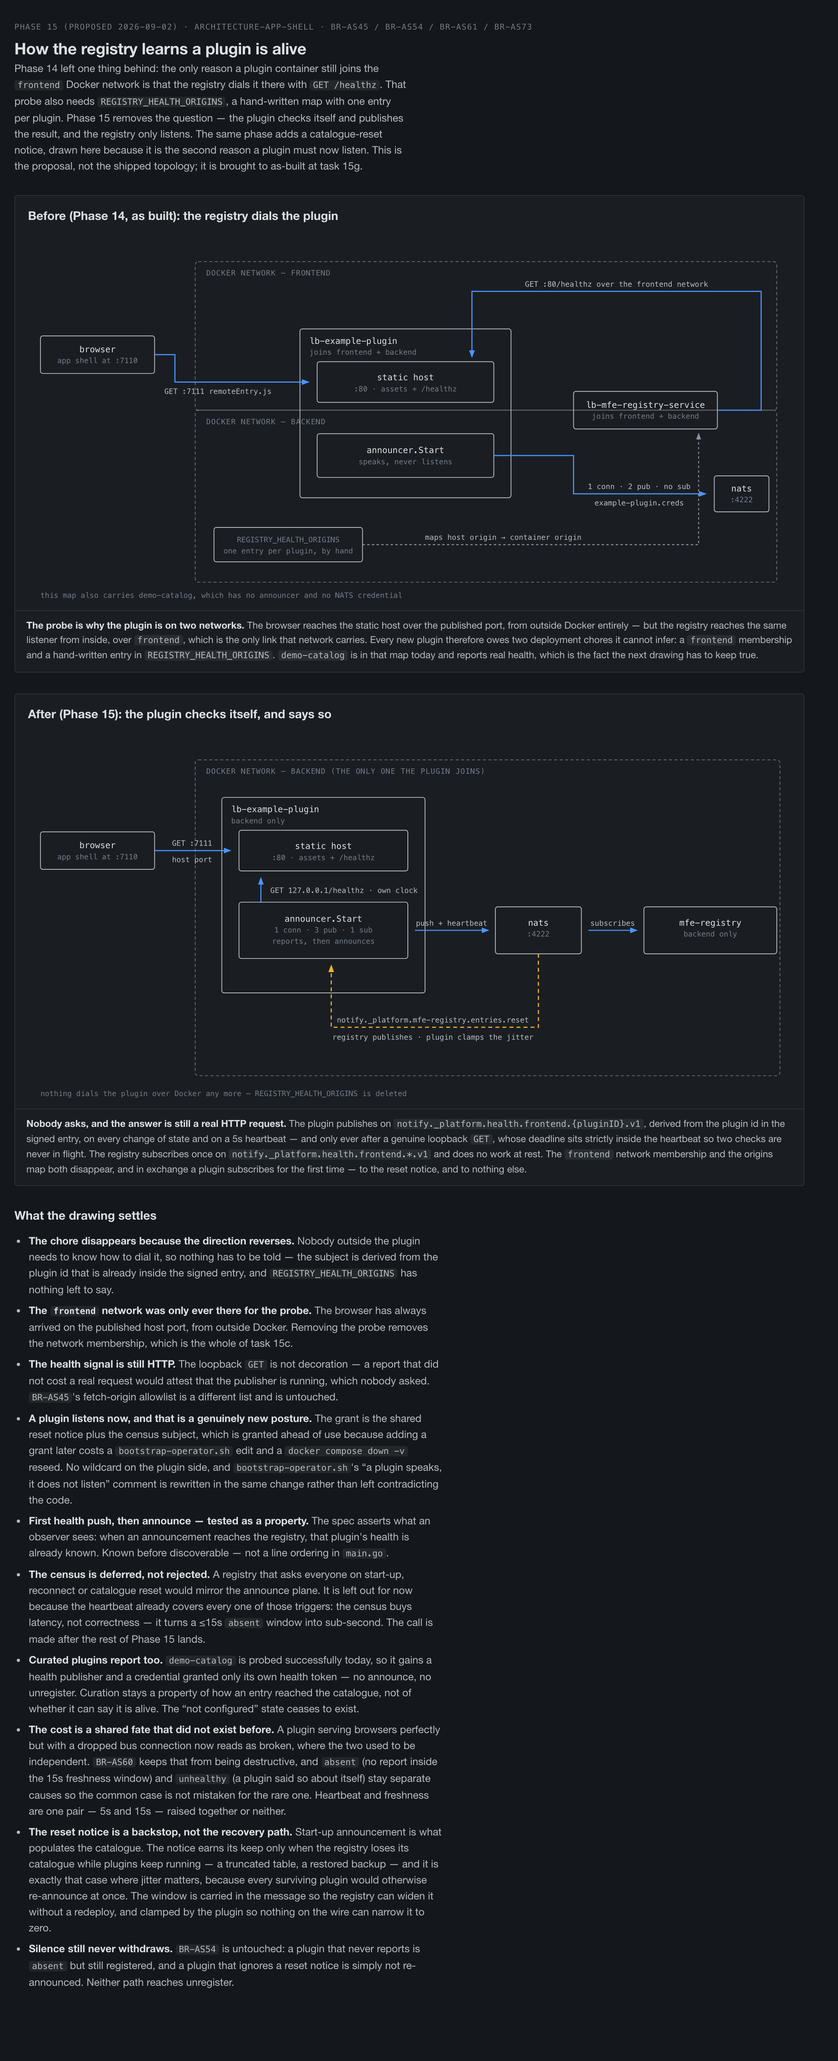
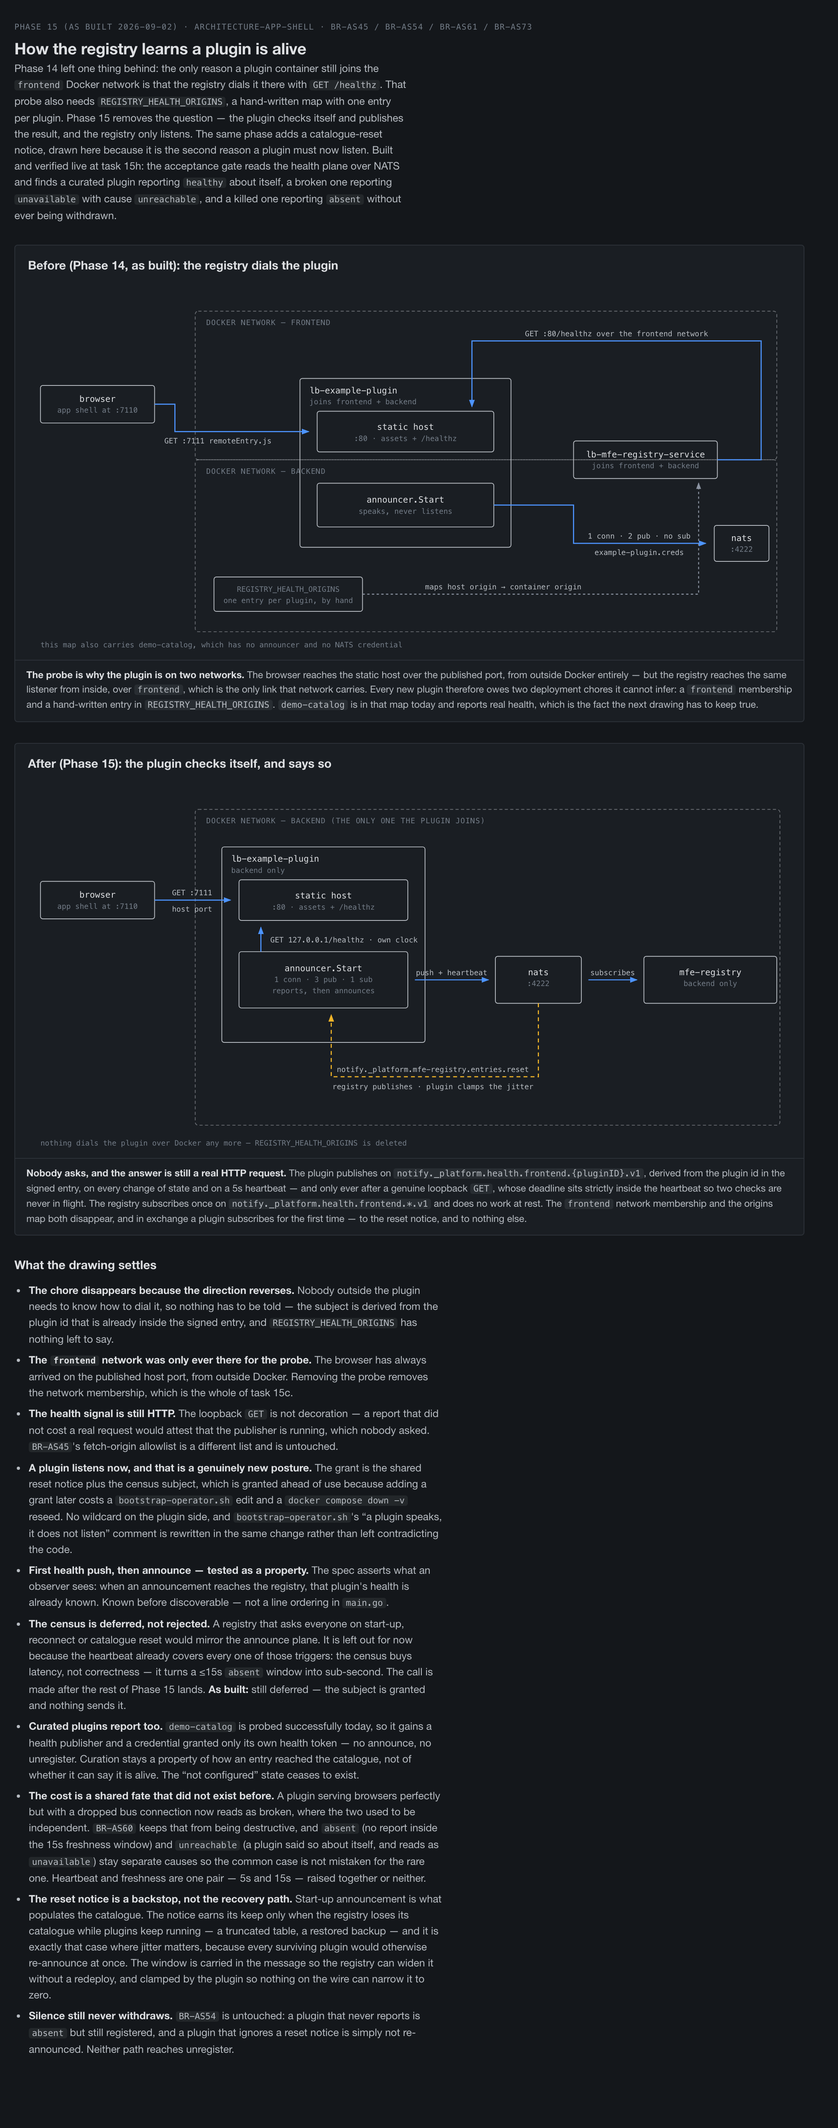
docs(app-shell): health over NATS, as built (Phase 15g)
ARCHITECTURE-APP-SHELL.md loses the claim that the registry dials each plugin
for GET /healthz through BR-AS45's origin map — it makes no outbound health
request at all now — and gains an as-built block for the reversed frontend
plane: the subject derived from the signed entry, the frontend Docker network
membership that went with the probe, curated publishers reporting about
themselves, the two subjects a plugin subscribes to, and the line between a
plugin saying it is broken and the registry hearing nothing.

ARCHITECTURE-COMMUNICATIONS.md gains the two Phase 15 subjects, and the two
health subjects from Phase 5 that were never listed at all.

The drawing is re-stamped as built and carries the 15h result instead of the
proposal disclaimer; one label the implementation moved is corrected, since it
said 'unhealthy' where the shipped vocabulary reports 'unavailable' with cause
'unreachable'. The Phase 14 drawing is left alone — it is dated as Phase 14's
state and this one carries the change.

diff --git a/demos/01-dictionary/diagrams/mfe-health-over-nats.html b/demos/01-dictionary/diagrams/mfe-health-over-nats.html
@@ -52,9 +52,9 @@ li b { color: var(--text); font-weight: 600; }
 <div class="wrap">
   <div class="head">
     <div class="head-txt">
-      <span class="eyebrow">Phase 15 (proposed 2026-09-02) &#183; ARCHITECTURE-APP-SHELL &#183; BR-AS45 / BR-AS54 / BR-AS61 / BR-AS73</span>
+      <span class="eyebrow">Phase 15 (as built 2026-09-02) &#183; ARCHITECTURE-APP-SHELL &#183; BR-AS45 / BR-AS54 / BR-AS61 / BR-AS73</span>
       <h1>How the registry learns a plugin is alive</h1>
-      <p class="sub">Phase 14 left one thing behind: the only reason a plugin container still joins the <code>frontend</code> Docker network is that the registry dials it there with <code>GET /healthz</code>. That probe also needs <code>REGISTRY_HEALTH_ORIGINS</code>, a hand-written map with one entry per plugin. Phase 15 removes the question &#8212; the plugin checks itself and publishes the result, and the registry only listens. The same phase adds a catalogue-reset notice, drawn here because it is the second reason a plugin must now listen. This is the proposal, not the shipped topology; it is brought to as-built at task 15g.</p>
+      <p class="sub">Phase 14 left one thing behind: the only reason a plugin container still joins the <code>frontend</code> Docker network is that the registry dials it there with <code>GET /healthz</code>. That probe also needs <code>REGISTRY_HEALTH_ORIGINS</code>, a hand-written map with one entry per plugin. Phase 15 removes the question &#8212; the plugin checks itself and publishes the result, and the registry only listens. The same phase adds a catalogue-reset notice, drawn here because it is the second reason a plugin must now listen. Built and verified live at task 15h: the acceptance gate reads the health plane over NATS and finds a curated plugin reporting <code>healthy</code> about itself, a broken one reporting <code>unavailable</code> with cause <code>unreachable</code>, and a killed one reporting <code>absent</code> without ever being withdrawn.</p>
     </div>
   </div>
 
@@ -197,9 +197,9 @@ li b { color: var(--text); font-weight: 600; }
       <li><b>The health signal is still HTTP.</b> The loopback <code>GET</code> is not decoration &#8212; a report that did not cost a real request would attest that the publisher is running, which nobody asked. <code>BR-AS45</code>'s fetch-origin allowlist is a different list and is untouched.</li>
       <li><b>A plugin listens now, and that is a genuinely new posture.</b> The grant is the shared reset notice plus the census subject, which is granted ahead of use because adding a grant later costs a <code>bootstrap-operator.sh</code> edit and a <code>docker compose down -v</code> reseed. No wildcard on the plugin side, and <code>bootstrap-operator.sh</code>'s &#8220;a plugin speaks, it does not listen&#8221; comment is rewritten in the same change rather than left contradicting the code.</li>
       <li><b>First health push, then announce &#8212; tested as a property.</b> The spec asserts what an observer sees: when an announcement reaches the registry, that plugin's health is already known. Known before discoverable &#8212; not a line ordering in <code>main.go</code>.</li>
-      <li><b>The census is deferred, not rejected.</b> A registry that asks everyone on start-up, reconnect or catalogue reset would mirror the announce plane. It is left out for now because the heartbeat already covers every one of those triggers: the census buys latency, not correctness &#8212; it turns a &#8804;15s <code>absent</code> window into sub-second. The call is made after the rest of Phase 15 lands.</li>
+      <li><b>The census is deferred, not rejected.</b> A registry that asks everyone on start-up, reconnect or catalogue reset would mirror the announce plane. It is left out for now because the heartbeat already covers every one of those triggers: the census buys latency, not correctness &#8212; it turns a &#8804;15s <code>absent</code> window into sub-second. The call is made after the rest of Phase 15 lands. <b>As built:</b> still deferred &#8212; the subject is granted and nothing sends it.</li>
       <li><b>Curated plugins report too.</b> <code>demo-catalog</code> is probed successfully today, so it gains a health publisher and a credential granted only its own health token &#8212; no announce, no unregister. Curation stays a property of how an entry reached the catalogue, not of whether it can say it is alive. The &#8220;not configured&#8221; state ceases to exist.</li>
-      <li><b>The cost is a shared fate that did not exist before.</b> A plugin serving browsers perfectly but with a dropped bus connection now reads as broken, where the two used to be independent. <code>BR-AS60</code> keeps that from being destructive, and <code>absent</code> (no report inside the 15s freshness window) and <code>unhealthy</code> (a plugin said so about itself) stay separate causes so the common case is not mistaken for the rare one. Heartbeat and freshness are one pair &#8212; 5s and 15s &#8212; raised together or neither.</li>
+      <li><b>The cost is a shared fate that did not exist before.</b> A plugin serving browsers perfectly but with a dropped bus connection now reads as broken, where the two used to be independent. <code>BR-AS60</code> keeps that from being destructive, and <code>absent</code> (no report inside the 15s freshness window) and <code>unreachable</code> (a plugin said so about itself, and reads as <code>unavailable</code>) stay separate causes so the common case is not mistaken for the rare one. Heartbeat and freshness are one pair &#8212; 5s and 15s &#8212; raised together or neither.</li>
       <li><b>The reset notice is a backstop, not the recovery path.</b> Start-up announcement is what populates the catalogue. The notice earns its keep only when the registry loses its catalogue while plugins keep running &#8212; a truncated table, a restored backup &#8212; and it is exactly that case where jitter matters, because every surviving plugin would otherwise re-announce at once. The window is carried in the message so the registry can widen it without a redeploy, and clamped by the plugin so nothing on the wire can narrow it to zero.</li>
       <li><b>Silence still never withdraws.</b> <code>BR-AS54</code> is untouched: a plugin that never reports is <code>absent</code> but still registered, and a plugin that ignores a reset notice is simply not re-announced. Neither path reaches unregister.</li>
     </ul>

diff --git a/demos/01-dictionary/backend/mfe-registry-service/registry/internal/domain/health.go b/demos/01-dictionary/backend/mfe-registry-service/registry/internal/domain/health.go
@@ -39,8 +39,12 @@ const (
 
 // The state vocabulary. Six values, and the last three exist because "we did
 // not check" must never be spelled the same way as "we checked and it is
-// fine" — the whole point of BR-AS61 is that no mapping means not checked,
-// never healthy.
+// fine".
+//
+// HealthNotConfigured is BACKEND-ONLY since Phase 15. On the frontend plane
+// there is nothing left to configure — a plugin reports about itself on a
+// subject derived from its own id — so an enabled plugin is either heard from
+// or absent, and never "not configured".
 const (
 	HealthUnknown       = "unknown"
 	HealthHealthy       = "healthy"

diff --git a/obsidian/V3-Platform/Architecture/Dictionary-POC/ARCHITECTURE-APP-SHELL.md b/obsidian/V3-Platform/Architecture/Dictionary-POC/ARCHITECTURE-APP-SHELL.md
@@ -352,23 +352,33 @@ an owner must not withdraw its contributors or affect unrelated host-owned slots
 
 ### Independent health observations
 
-The registry centrally probes frontend `GET /healthz` and configured backend NATS readiness
-subjects, then broadcasts one read-only, timestamped snapshot after every completed probe pass.
-Frontend HTTP reuses BR-AS45's explicit
-allowlisted browser-origin → service-origin mapping: no redirects, arbitrary URLs, ambient proxy or
-fallback to browser addresses. Frontend services need the dedicated small-response endpoint; a healthy
-endpoint does not prove a browser can load JavaScript assets. Phase 8c manifest drift remains separate
-and preload-only; health covers both lifecycle classes regardless of source.
+The registry observes frontend health and configured backend NATS readiness subjects, then
+broadcasts one read-only, timestamped snapshot. **Since Phase 15 the frontend half is pushed, not
+polled:** the registry makes no outbound health request at all, and the paragraph that used to
+describe it dialling `GET /healthz` through BR-AS45's browser-origin → service-origin mapping is
+withdrawn along with `REGISTRY_HEALTH_ORIGINS` and `registry/internal/healthhttp/`. What survives
+the reversal is the reason the probe was HTTP in the first place: the request is still a real
+`GET /healthz`, it is simply issued by the plugin against its own loopback listener, because a
+report that cost no request would attest only that the publisher is running. A healthy endpoint
+still does not prove a browser can load JavaScript assets. Phase 8c manifest drift remains separate
+and preload-only, and is now the registry's **only** outbound HTTP capability; health covers both
+lifecycle classes regardless of source.
 
 Deployment configuration maps plugin IDs to backend service IDs, never manifest-supplied targets.
-Absent mapping means not configured; an explicit empty list means frontend-only/not applicable. Keep
+Absent mapping means not configured; an explicit empty list means frontend-only/not applicable.
+**Both of those are backend-plane states only.** Nothing is configured on the frontend plane any
+more, so `not configured` is unreachable there: every enabled plugin either reports about itself or
+is `absent`. Keep
 individual dependency results; any unavailable makes the backend summary unavailable, otherwise any
 unknown/stale makes it unknown/stale, and all healthy makes it healthy. Presence alone is insufficient.
 Subject builders/grants must keep probe RPC away from browser credentials and avoid broad registry
 or `$SYS` permissions.
 
 Each target is checked every **5 seconds**, times out after **2 seconds**, becomes unavailable after
-**2 consecutive failures** and recovers after **1 success**. Counters are independent. Start unknown,
+**2 consecutive failures** and recovers after **1 success**. Since Phase 15 the frontend cadence is
+the **plugin's own clock**, not the registry's: the same 5s interval and 2-failure threshold, run
+inside the announcer, with the self-check deadline strictly *inside* the heartbeat so two checks are
+never in flight. Counters are independent. Start unknown,
 and show unknown/stale after **15 seconds** without a fresh observation, with the last-check time.
 Old or duplicate snapshots cannot refresh it. An initial read, a read on every connection epoch and a
 slow jittered reconciliation read close Core NATS delivery gaps; bounded workers run off request paths
@@ -408,6 +418,39 @@ and the health dot is `v-else-if`, because two marks in one corner of the eye co
 inform. The registry owns declared plugin frontend/backend readiness; a browser's own NATS
 connection remains local shell state and general broker connection telemetry remains observability's
 responsibility.
+
+**As built, Phase 15 (2026-09-02) — the frontend plane reversed.** A plugin publishes its own health
+on `notify._platform.health.frontend.{pluginID}.v1`, a subject derived from the plugin id already
+inside its signed entry, so nothing has to be told how to reach it and there is no map to maintain.
+The registry subscribes once on `notify._platform.health.frontend.*.v1` and does no work at rest.
+Core NATS, not JetStream: a health reading is worth nothing after 15 seconds, so there is nothing to
+retain.
+
+Three consequences are worth stating because each removed something:
+
+- **A plugin container no longer joins the `frontend` Docker network.** The probe was the only
+  reason it did; the browser has always arrived on the published host port, from outside Docker.
+- **`not configured` is gone from the frontend plane.** It survives only on the backend plane of
+  BR-AS62. Curated entries report too — `demo-catalog` holds a `HEALTH_ONLY` credential granted its
+  own health token and nothing else: no announce, no unregister. Curation is a property of how an
+  entry reached the catalogue, not of whether it can say it is alive.
+- **A plugin subscribes for the first time.** Two subjects: the catalogue-reset notice
+  (`notify._platform.mfe-registry.entries.reset`, BR-AS73) and a reserved census subject that is
+  granted ahead of use and that nothing sends today — adding a grant later costs a
+  `bootstrap-operator.sh` edit and a `docker compose down -v` reseed, so it was cheaper to grant it
+  now than to need it later.
+
+Silence and failure stay different things. A plugin that says it is broken is `unavailable` with a
+cause it reported (`unreachable`, `timeout`, `http-status`, `invalid-response`); a plugin the
+registry has simply not heard from inside the 15s freshness window is `stale` with cause `absent`,
+which is registry-attached and can never be sent by a plugin. Neither ever withdraws an entry
+(BR-AS54) — the acceptance gate SIGKILLs a live publisher and asserts the entry is still registered,
+spent no release, and stays enabled.
+
+Heartbeat (5s) and freshness (15s) are one pair, raised together or neither. The cost of the
+reversal is a shared fate that did not exist before: a plugin serving browsers perfectly but with a
+dropped bus connection now reads as broken, where the two used to be independent. BR-AS60 keeps that
+from being destructive — health still never removes, reorders, disables or reloads content.
 
 Readiness lives in `shared/natsready`, mounted today by `refdata-service` against `db.PingContext`:
 every ask runs the real check with a 2-second deadline and nothing is cached, because a service
@@ -552,22 +595,20 @@ is the shipped topology rather than the proposal — the credential rename and t
 > Re-run `node diagrams/audit-svg-layout.mjs diagrams/mfe-announcer-topology.html`
 > after any edit to the SVG.
 
-#### Phase 15 (proposed) — how the registry learns a plugin is alive
+#### Phase 15 (as built) — how the registry learns a plugin is alive
 
-Phase 14 left one thing behind. The only reason a plugin container still joins
-the `frontend` Docker network is that the registry dials it there with
-`GET /healthz` (BR-AS61), and that probe needs `REGISTRY_HEALTH_ORIGINS`, a
-hand-written map with one entry per plugin. *(That paragraph describes the
-pre-15 state; tasks 15b and 15c shipped the reversal on 2026-09-02.)* Phase 15
-reverses the direction: the
+Phase 14 left one thing behind. The only reason a plugin container still joined
+the `frontend` Docker network was that the registry dialled it there with
+`GET /healthz` (BR-AS61), and that probe needed `REGISTRY_HEALTH_ORIGINS`, a
+hand-written map with one entry per plugin. Phase 15 reversed the direction: the
 plugin checks itself and publishes the result, and the registry only listens —
-which deletes both the map and the network membership. The same phase adds a
+which deleted both the map and the network membership. The same phase added a
 catalogue-reset notice (BR-AS73), drawn alongside because it is the reason a
-plugin must now subscribe to anything at all.
+plugin subscribes to anything at all.
 
-**This drawing is the proposal, not the shipped topology.** It is brought to
-as-built at task 15g, the way the Phase 14 drawing above was. The design review
-behind it is `.claude/plans/reviews/adr-phase15-health-over-nats-20260902.md`.
+**This drawing is as built** (re-stamped at task 15g, the way the Phase 14
+drawing above was), and was verified live at task 15h. The design review behind
+it is `.claude/plans/reviews/adr-phase15-health-over-nats-20260902.md`.
 
 ![Before and after of frontend health for an MFE plugin. Before, as built in Phase 14, the plugin container straddles the frontend and backend Docker networks and the registry reaches around over frontend to issue GET :80/healthz directly against the plugin's static host, using a hand-written REGISTRY_HEALTH_ORIGINS map; the plugin's announcer publishes on two subjects and holds no subscribe grant. After, under Phase 15, the plugin joins only the backend network, the announcer performs a loopback GET against 127.0.0.1 on its own clock and publishes the result onto NATS on every change and on a five second heartbeat, and the registry only subscribes; a second dashed edge carries the catalogue reset notice back into the same announcer.](images/mfe-health-over-nats.png)
 
@@ -590,7 +631,7 @@ nothing but a plugin id and a manifest file:
 | Link | Held before Phase 14 | Protocol | Direction | Count per plugin |
 | --- | --- | --- | --- | --- |
 | Asset serving | `lb-example-plugin` (nginx, `frontend` only) | HTTP `:80`, published as 7111 | browser dials in | 1 listener, 0 NATS |
-| Health probe | the same nginx listener | HTTP `GET /healthz` | registry dials in (BR-AS61) | shares the listener above |
+| Health probe *(pre-Phase 15)* | the same nginx listener | HTTP `GET /healthz` | registry dialled in (BR-AS61) | shares the listener above |
 | Announcement | `lb-example-plugin-announcer` (`backend` only) | NATS request/reply | the plugin dials out | 1 NATS connection |
 
 Phase 14 changed **who holds them, not how many there are**. After the merge a

diff --git a/.claude/plans/Application-Shell-Microfrontend-Plan.md b/.claude/plans/Application-Shell-Microfrontend-Plan.md
@@ -805,7 +805,7 @@ and are carried into the tasks below. The three that would have broken something
       health becomes stale/absent but stays registered, while a never-heard plugin stays unknown; a plugin
       that ignores a reset notice is simply not re-announced (decision 9). Neither path may reach unregister.
       BR-AS54 unchanged.
-- [ ] **15g — docs.** `ARCHITECTURE-APP-SHELL.md` gains the as-built section and loses the claims
+- [x] **15g — docs.** *(Done 2026-09-02.)* `ARCHITECTURE-APP-SHELL.md` gains the as-built section and loses the claims
       this phase invalidates; `ARCHITECTURE-COMMUNICATIONS.md` gains the two new subjects. The Phase
       14 topology drawing's "after" panel now shows a plugin on two Docker networks and must be
       re-drawn to one, or explicitly dated as Phase 14's state.
@@ -814,6 +814,20 @@ and are carried into the tasks below. The three that would have broken something
       "proposed". 15g brings it to as-built the way Phase 14's was — re-stamp the eyebrow, and fix
       any label the implementation moved. The Phase 14 drawing is left alone; it is dated as Phase
       14's state and the new one carries the change.
+      **Done.** `ARCHITECTURE-APP-SHELL.md` § "Independent health observations": the paragraph
+      describing the registry dialling `GET /healthz` through BR-AS45's origin map is withdrawn, the
+      cadence paragraph now says the frontend clock is the plugin's, `not configured` is marked
+      backend-plane-only, and a new "As built, Phase 15" block covers the subject derived from the
+      signed entry, the lost `frontend` network membership, curated publishers reporting, the two
+      subjects a plugin now subscribes to, and `unavailable`/`unreachable` vs `stale`/`absent`.
+      `ARCHITECTURE-COMMUNICATIONS.md` gains the two Phase 15 subjects *and* the two health subjects
+      from Phase 5 that were never listed, with the inverse-grant note and the reserved census
+      subject named. `diagrams/mfe-health-over-nats.html` re-stamped "as built", proposal disclaimer
+      replaced by the 15h live result; one label the implementation moved is fixed — the drawing
+      said `unhealthy` where the shipped vocabulary reports `unavailable` with cause `unreachable`.
+      Layout audit clean, PNG re-exported. Phase 14 drawing untouched, as planned. Also picked up:
+      the stale "no mapping means not checked" clause in `registry/internal/domain/health.go`,
+      which 15a was supposed to drop.
 - [x] **15h — the gate.** *(Done 2026-09-02. Green against the running lab, 11 steps.)*
       `cmd/registry-acceptance` green against the running lab. It asserts health
       today, so unlike Phase 14 this phase should expect to touch it — and any edit is recorded in

diff --git a/obsidian/V3-Platform/Architecture/Dictionary-POC/ARCHITECTURE-COMMUNICATIONS.md b/obsidian/V3-Platform/Architecture/Dictionary-POC/ARCHITECTURE-COMMUNICATIONS.md
@@ -553,6 +553,24 @@ wildcard grant:
 | `api._platform.mfe-registry.entries.set-enabled.v1` | Admin; `{ifRevision, entryId, enabled}`, never creates |
 | `api._platform.mfe-registry.audit.list.v1` | Admin; `{limit}` |
 | `notify._platform.mfe-registry.frontend-plugins.changed` | Shell subscription; committed `{revision}` hint only |
+| `api._platform.mfe-registry.frontend-plugins.health.v1` | `lab-shell`; initial and reconnect read of the health snapshot |
+| `notify._platform.mfe-registry.frontend-plugins.health` | Shell subscription; one full snapshot per pass, never a hint |
+
+Phase 15 (2026-09-02) added two more, and they are the first subjects on which a
+**plugin** rather than the registry is a peer:
+
+| Subject | Credential / purpose |
+| --- | --- |
+| `notify._platform.health.frontend.{pluginID}.v1` | Each plugin publishes **only its own** token, derived from the plugin id in its signed entry; the registry subscribes once on `notify._platform.health.frontend.*.v1` and never publishes. Core NATS, not JetStream — a reading is worthless after the 15s freshness window, so there is nothing to retain. |
+| `notify._platform.mfe-registry.entries.reset` | The catalogue-reset notice (BR-AS73). The registry publishes; announcing plugins subscribe and re-announce after a jitter. `notify.`, never `cmd.` — the registry states a fact about itself and instructs nobody; a plugin that ignores it is simply not re-announced. |
+
+The grants are the exact inverse per side: the registry may subscribe on the
+health wildcard and never publish there; a plugin may publish its own health
+token and never subscribe to another's. `demo-catalog`, which is curated and
+cannot announce, holds the health publish grant and not the reset subscription.
+A reserved census subject, `rpc._platform.health.frontend.census.v1`, is
+granted to plugins ahead of use and nothing sends it today — adding a grant later costs a `bootstrap-operator.sh` edit and a
+`docker compose down -v` reseed.
 
 The shell connects after first paint; every reconnect reads unconditionally.
 Operator refusals keep shared `error`/`conflict` semantics with additive revision
